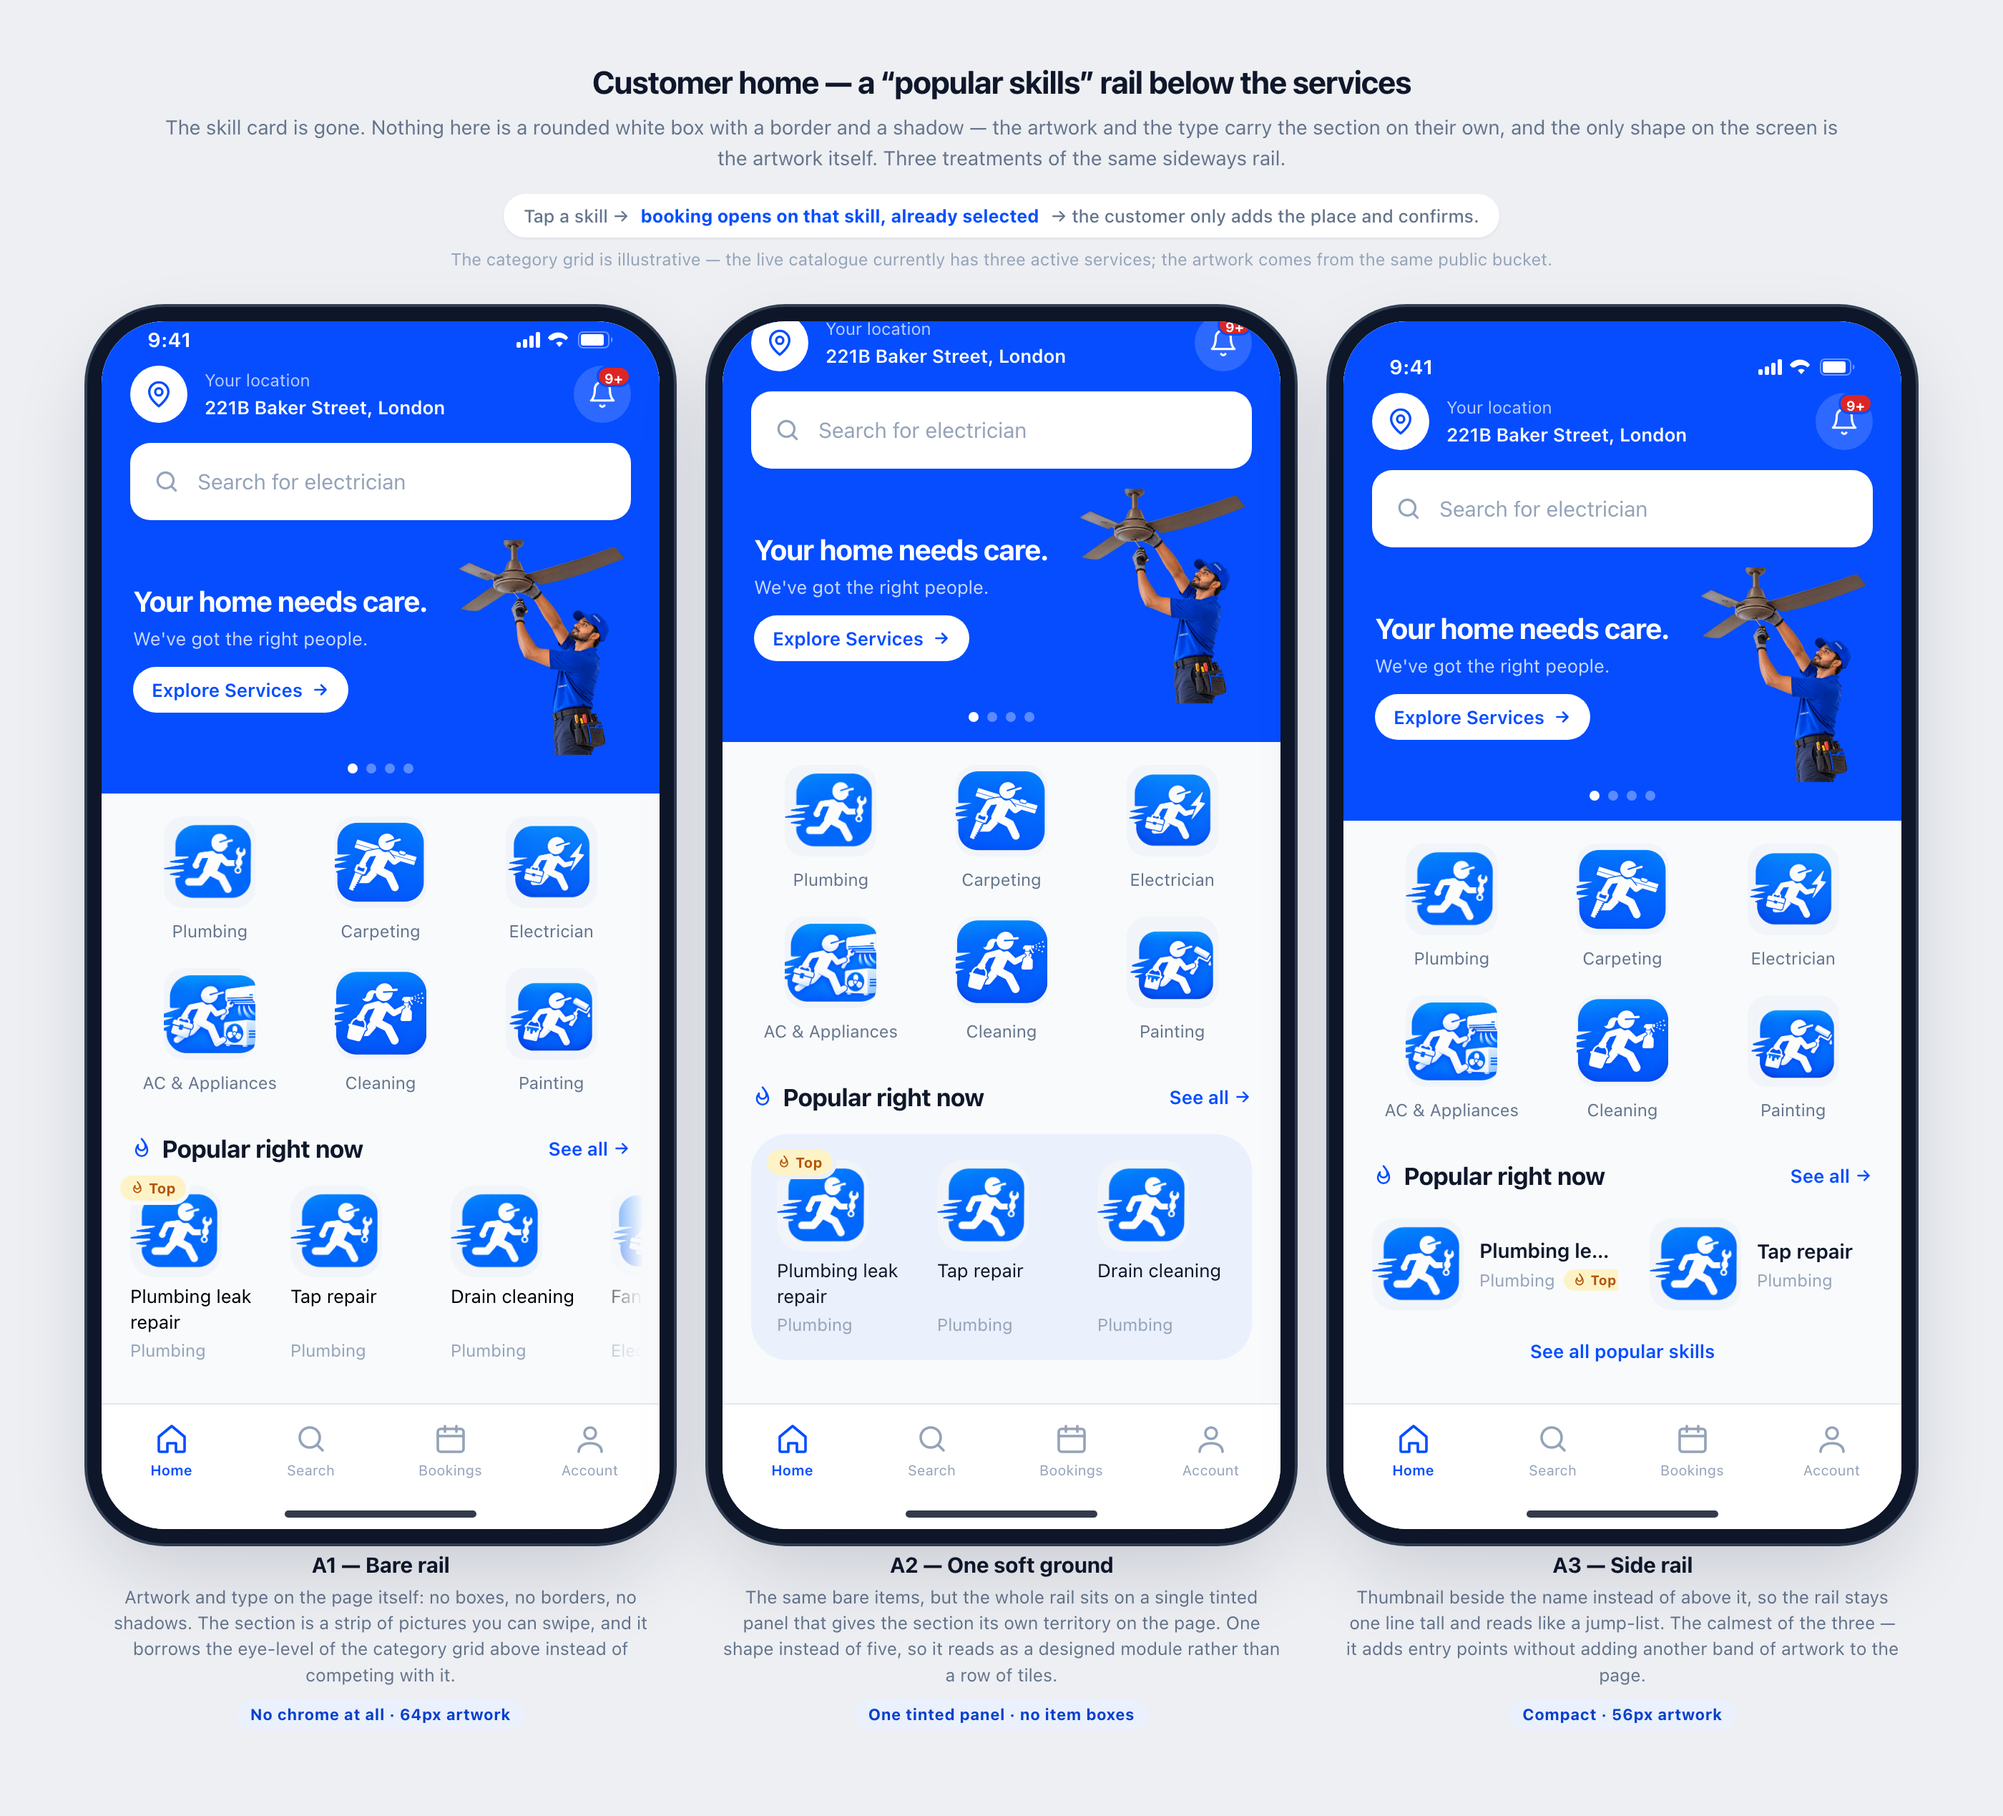
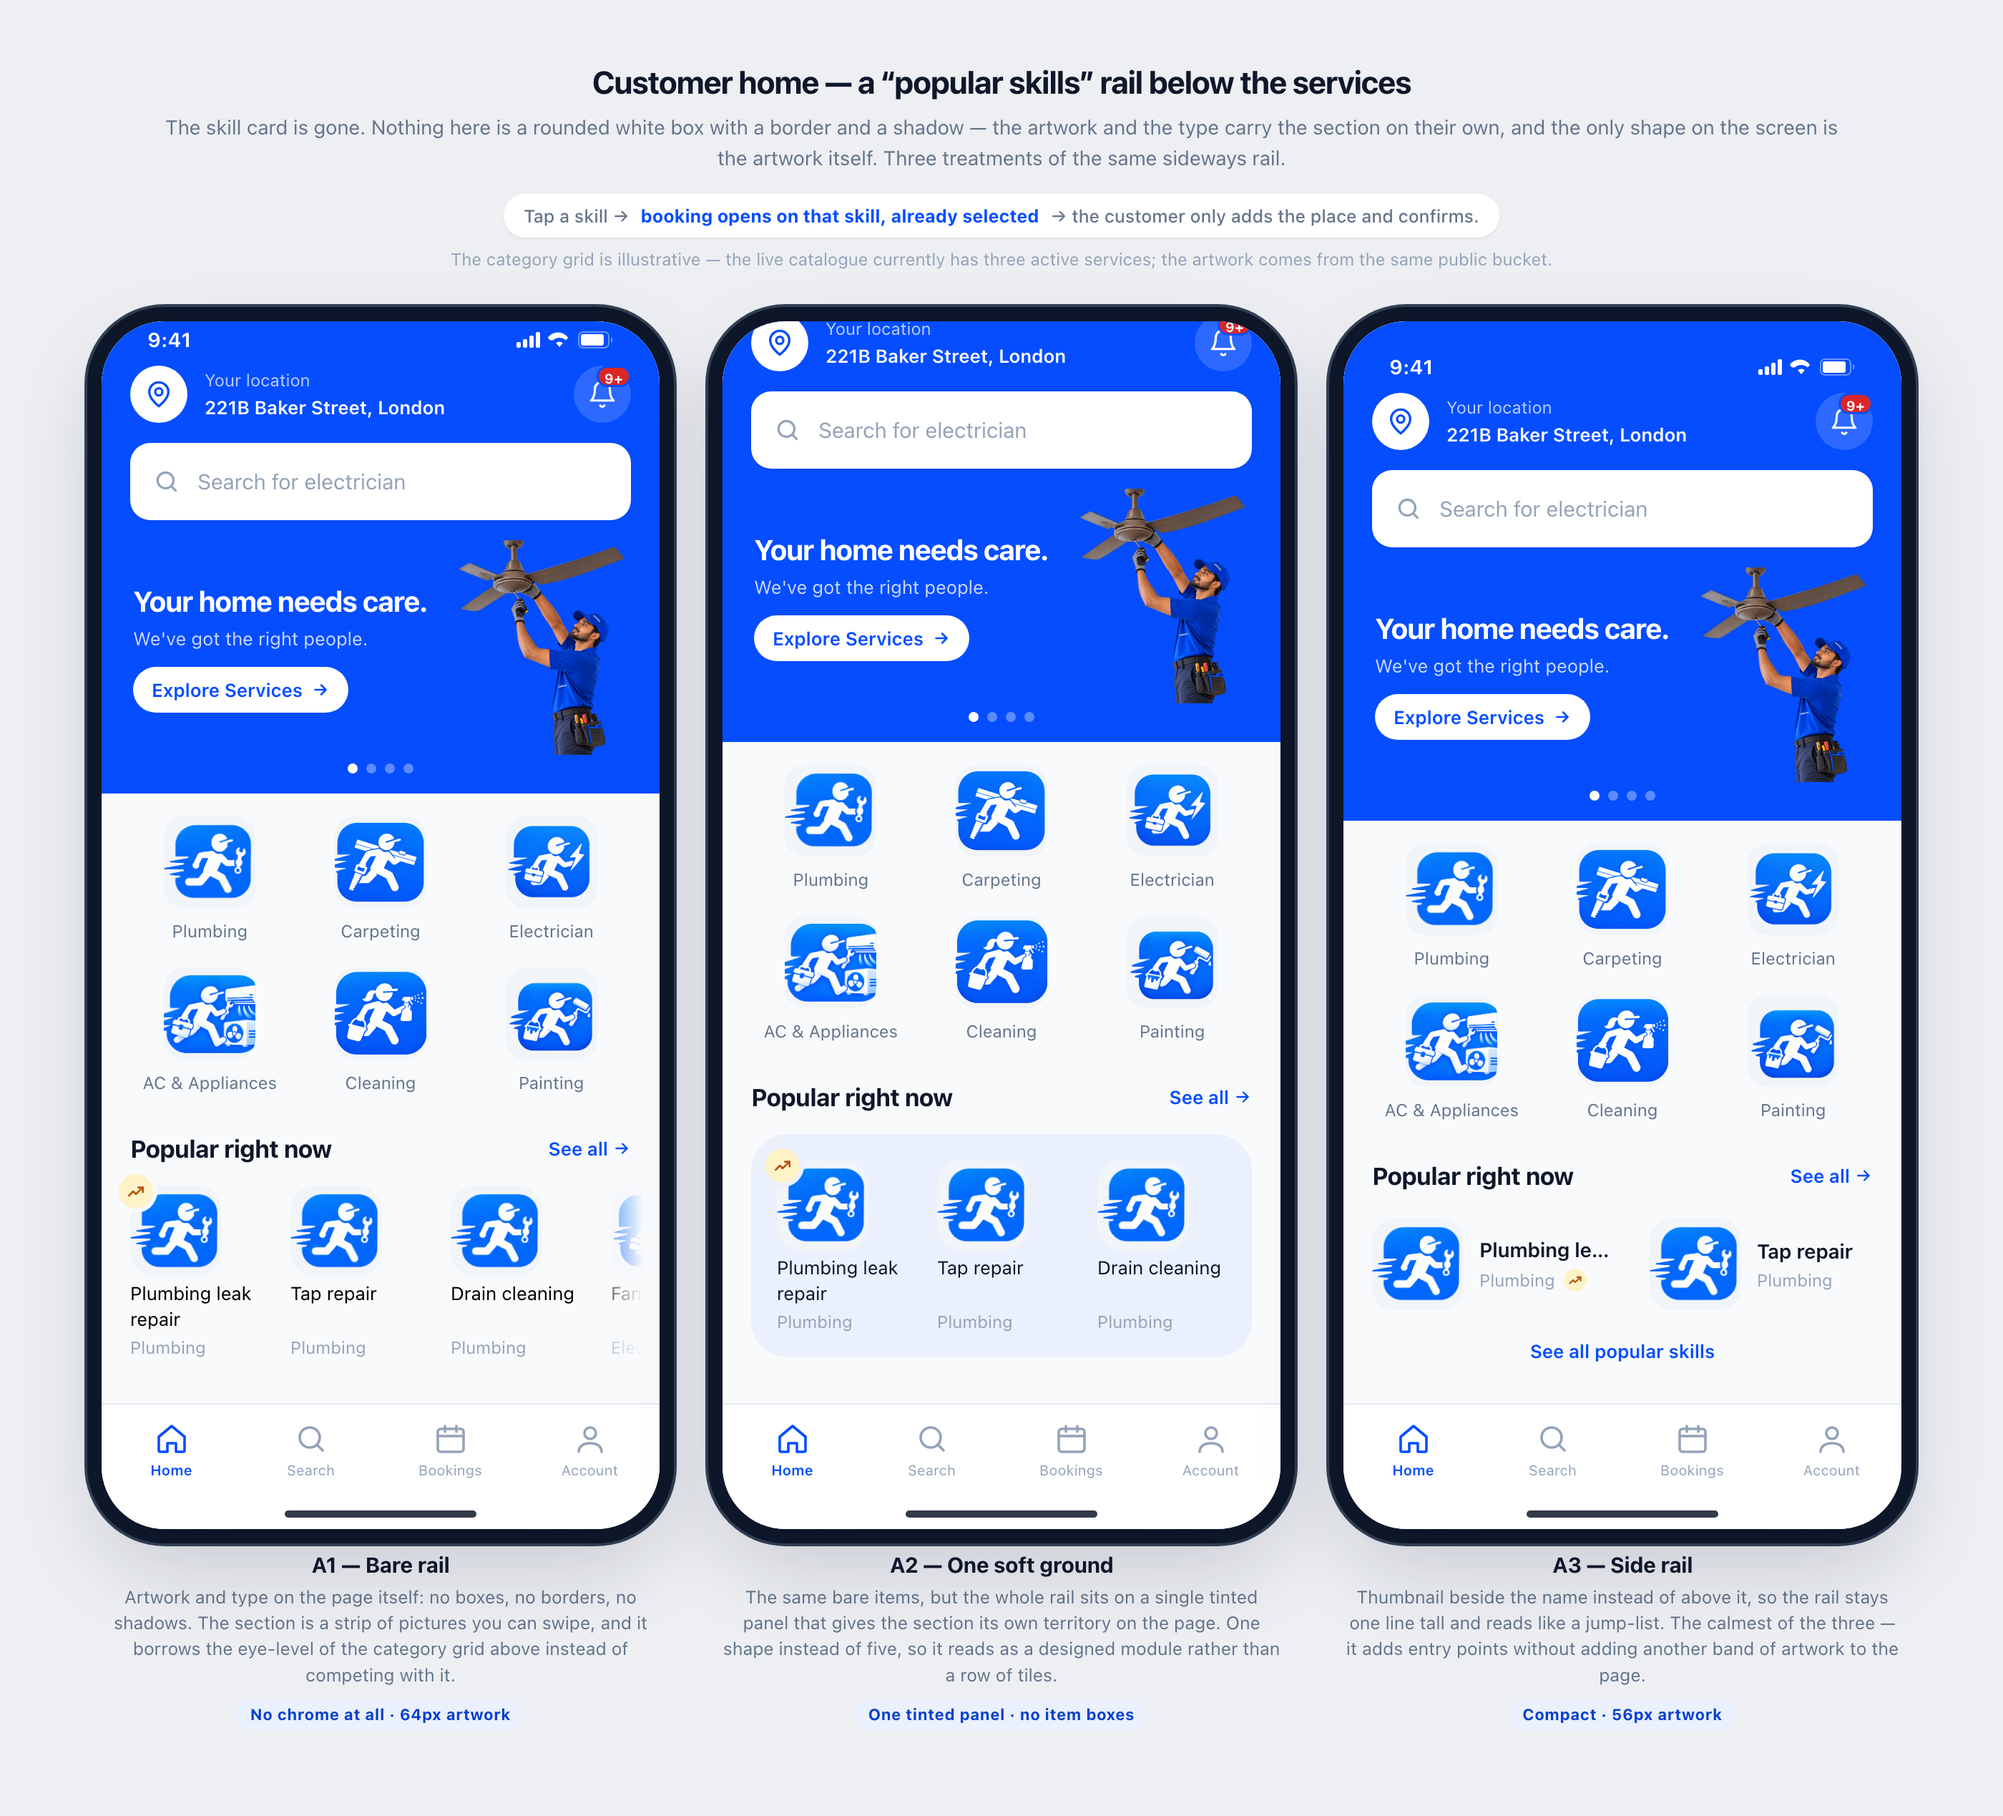
docs(mockups): swap the top-pick badge for a trending-up glyph
The flame-and-word pill becomes a single amber circle with the graph
increasing icon, and the section heading loses its flame — the same
changes that landed in the customer app.

diff --git a/docs/mockups/home-popular-skills/preview.html b/docs/mockups/home-popular-skills/preview.html
@@ -108,19 +108,19 @@
   .phead a{font-size:13px;font-weight:600;color:var(--brand);display:flex;align-items:center;gap:3px}
   .phead a svg{width:13px;height:13px;stroke:var(--brand);stroke-width:2.2}
 
-  .flag{display:inline-flex;align-items:center;gap:3px;font-size:10px;font-weight:700;color:var(--amber-700);
-    background:var(--amber-100);border-radius:999px;padding:3px 7px;letter-spacing:.01em;white-space:nowrap}
-  .flag svg{width:10px;height:10px;stroke:var(--amber-700);stroke-width:2}
+  .flag{display:inline-flex;align-items:center;justify-content:center;width:24px;height:24px;border-radius:999px;
+    background:var(--amber-100);flex:none}
+  .flag svg{width:13px;height:13px;stroke:var(--amber-700);stroke-width:2.4;fill:none;stroke-linecap:round;stroke-linejoin:round}
 
   /* A1 — bare rail: artwork + type, no boxes at all */
   .rail{display:flex;gap:14px;margin:16px -20px 0 0;padding:0 20px}
   .item{flex:none;width:98px;position:relative}
   .item .img{width:64px;height:64px;border-radius:18px;background:var(--ink-100);
     background-size:cover;background-position:center}
-  .item .name{font-size:13px;font-weight:400;color:#000;line-height:18px;margin-top:4px;
-    height:36px;overflow:hidden}
-  .item .meta{font-size:12px;color:var(--ink-400);margin-top:4px;white-space:nowrap;overflow:hidden;text-overflow:ellipsis}
-  .item .flag{position:absolute;top:-7px;left:-7px;box-shadow:0 0 0 3px var(--ink-50),0 1px 2px rgba(15,23,42,.12)}
+  .item .name{font-size:13px;font-weight:400;color:#000;line-height:18px;margin-top:2px;
+    height:40px;overflow:hidden}
+  .item .meta{font-size:12px;color:var(--ink-400);margin-top:0;white-space:nowrap;overflow:hidden;text-overflow:ellipsis}
+  .item .flag{position:absolute;top:-8px;left:-8px;box-shadow:0 0 0 3px var(--ink-50),0 1px 2px rgba(15,23,42,.12)}
   .rail-fade{position:absolute;right:0;top:34px;bottom:26px;width:52px;pointer-events:none;
     background:linear-gradient(90deg,rgba(248,250,252,0),var(--ink-50) 78%)}
 
@@ -140,7 +140,8 @@
     white-space:nowrap;overflow:hidden;text-overflow:ellipsis;letter-spacing:-.005em}
   .sitem .meta{font-size:12px;color:var(--ink-400);margin-top:4px;display:flex;align-items:center;gap:6px;
     white-space:nowrap;overflow:hidden}
-  .sitem .meta .flag{padding:2px 6px;font-size:9.5px}
+  .sitem .meta .flag{width:16px;height:16px}
+  .sitem .meta .flag svg{width:10px;height:10px;stroke-width:2.6}
   .plink{margin:21px 20px 0;font-size:13px;font-weight:600;color:var(--brand);text-align:center}
 
   /* ---------- tab bar ---------- */
@@ -204,13 +205,13 @@
 
           <div class="popular">
             <div class="phead">
-              <h3><svg viewBox="0 0 24 24" fill="none" stroke-linecap="round" stroke-linejoin="round"><path d="M12 2s4 4.5 4 8a4 4 0 0 1-8 0c0-1 .3-1.8.3-1.8S6 11 6 14a6 6 0 0 0 12 0c0-5-6-12-6-12Z"/></svg>Popular right now</h3>
+              <h3>Popular right now</h3>
               <a>See all<svg viewBox="0 0 24 24" fill="none" stroke-linecap="round" stroke-linejoin="round"><path d="M5 12h14M13 6l6 6-6 6"/></svg></a>
             </div>
             <div class="rail">
               <div class="item">
                 <div class="img" style="background-image:var(--img-plumbing)"></div>
-                <div class="flag"><svg viewBox="0 0 24 24" fill="none" stroke-linecap="round" stroke-linejoin="round"><path d="M12 2s4 4.5 4 8a4 4 0 0 1-8 0c0-1 .3-1.8.3-1.8S6 11 6 14a6 6 0 0 0 12 0c0-5-6-12-6-12Z"/></svg>Top</div>
+                <div class="flag"><svg viewBox="0 0 24 24" fill="none" stroke-linecap="round" stroke-linejoin="round"><path d="M3 17.5l5.5-5.5 3.5 3.5L21 7"/><path d="M15 7h6v6"/></svg></div>
                 <div class="name">Plumbing leak repair</div><div class="meta">Plumbing</div>
               </div>
               <div class="item"><div class="img" style="background-image:var(--img-plumbing)"></div><div class="name">Tap repair</div><div class="meta">Plumbing</div></div>
@@ -278,14 +279,14 @@
 
           <div class="popular">
             <div class="phead">
-              <h3><svg viewBox="0 0 24 24" fill="none" stroke-linecap="round" stroke-linejoin="round"><path d="M12 2s4 4.5 4 8a4 4 0 0 1-8 0c0-1 .3-1.8.3-1.8S6 11 6 14a6 6 0 0 0 12 0c0-5-6-12-6-12Z"/></svg>Popular right now</h3>
+              <h3>Popular right now</h3>
               <a>See all<svg viewBox="0 0 24 24" fill="none" stroke-linecap="round" stroke-linejoin="round"><path d="M5 12h14M13 6l6 6-6 6"/></svg></a>
             </div>
             <div class="panel">
               <div class="rail">
                 <div class="item">
                   <div class="img" style="background-image:var(--img-plumbing)"></div>
-                  <div class="flag"><svg viewBox="0 0 24 24" fill="none" stroke-linecap="round" stroke-linejoin="round"><path d="M12 2s4 4.5 4 8a4 4 0 0 1-8 0c0-1 .3-1.8.3-1.8S6 11 6 14a6 6 0 0 0 12 0c0-5-6-12-6-12Z"/></svg>Top</div>
+                  <div class="flag"><svg viewBox="0 0 24 24" fill="none" stroke-linecap="round" stroke-linejoin="round"><path d="M3 17.5l5.5-5.5 3.5 3.5L21 7"/><path d="M15 7h6v6"/></svg></div>
                   <div class="name">Plumbing leak repair</div><div class="meta">Plumbing</div>
                 </div>
                 <div class="item"><div class="img" style="background-image:var(--img-plumbing)"></div><div class="name">Tap repair</div><div class="meta">Plumbing</div></div>
@@ -353,7 +354,7 @@
 
           <div class="popular">
             <div class="phead">
-              <h3><svg viewBox="0 0 24 24" fill="none" stroke-linecap="round" stroke-linejoin="round"><path d="M12 2s4 4.5 4 8a4 4 0 0 1-8 0c0-1 .3-1.8.3-1.8S6 11 6 14a6 6 0 0 0 12 0c0-5-6-12-6-12Z"/></svg>Popular right now</h3>
+              <h3>Popular right now</h3>
               <a>See all<svg viewBox="0 0 24 24" fill="none" stroke-linecap="round" stroke-linejoin="round"><path d="M5 12h14M13 6l6 6-6 6"/></svg></a>
             </div>
             <div class="rail-side">
@@ -361,7 +362,7 @@
                 <div class="img" style="background-image:var(--img-plumbing)"></div>
                 <div class="txt">
                   <div class="name">Plumbing leak repair</div>
-                  <div class="meta">Plumbing<span class="flag"><svg viewBox="0 0 24 24" fill="none" stroke-linecap="round" stroke-linejoin="round"><path d="M12 2s4 4.5 4 8a4 4 0 0 1-8 0c0-1 .3-1.8.3-1.8S6 11 6 14a6 6 0 0 0 12 0c0-5-6-12-6-12Z"/></svg>Top</span></div>
+                  <div class="meta">Plumbing<span class="flag"><svg viewBox="0 0 24 24" fill="none" stroke-linecap="round" stroke-linejoin="round"><path d="M3 17.5l5.5-5.5 3.5 3.5L21 7"/><path d="M15 7h6v6"/></svg></span></div>
                 </div>
               </div>
               <div class="sitem">
